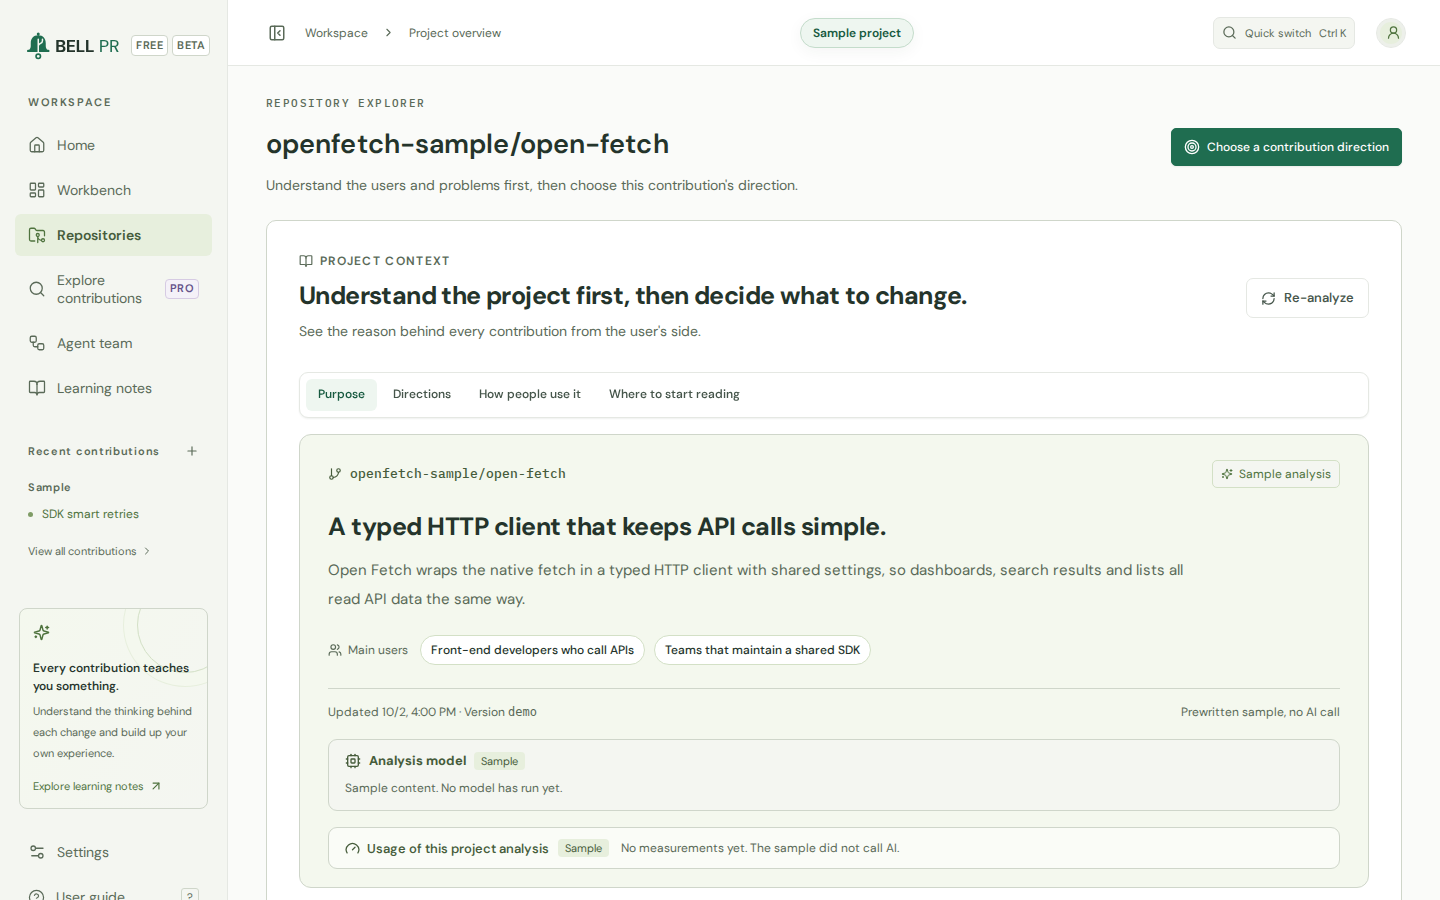
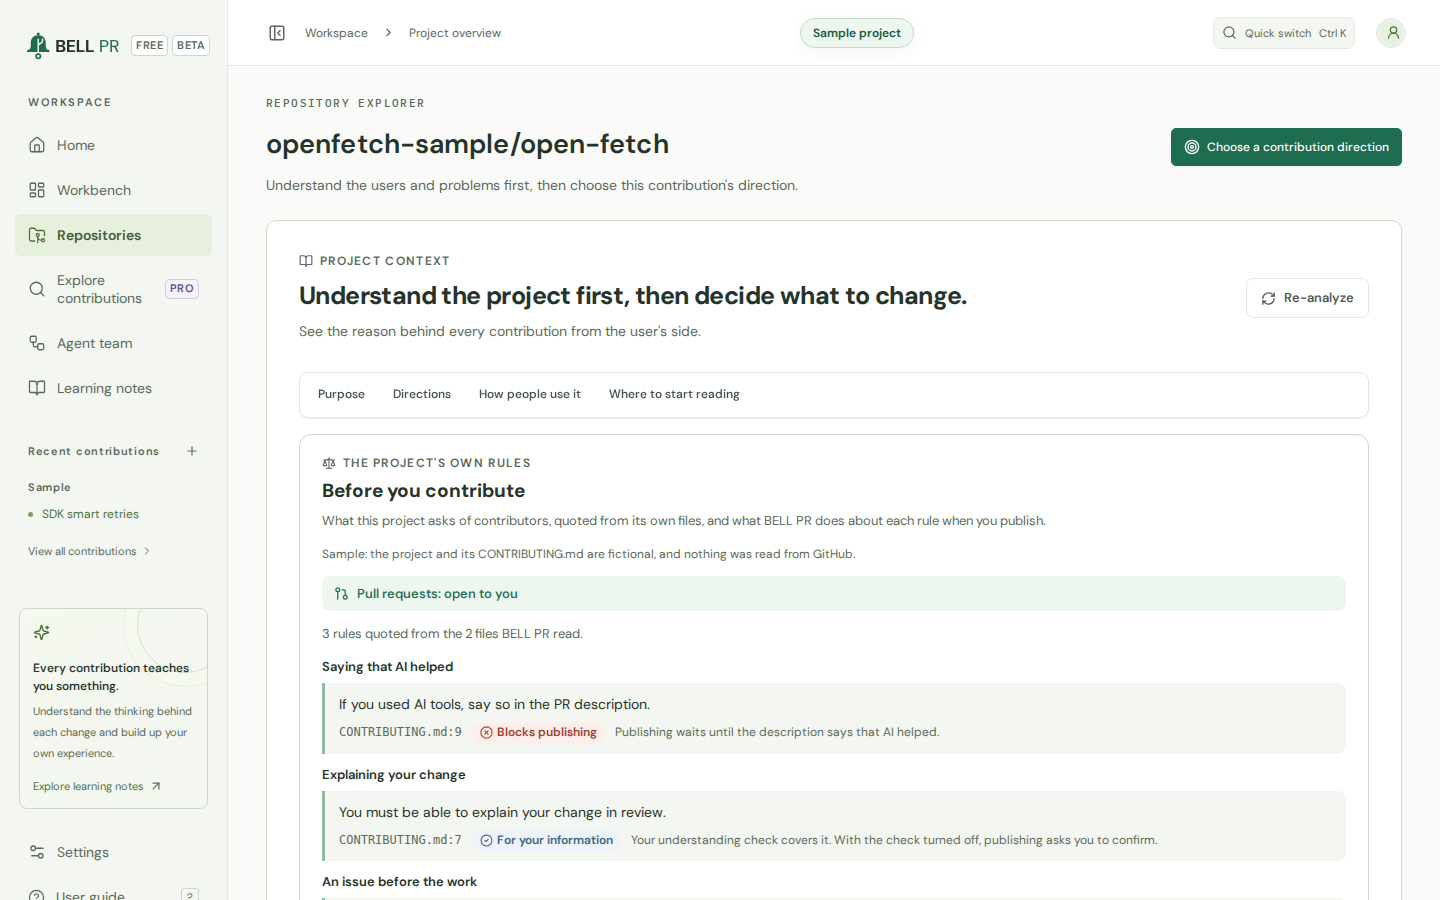
Put the v1.1 story on the landing page
- The owner's headline replaces the tagline candidate and its TODO
  comment; the eyebrow, lead, title and social descriptions follow
- The watch section, "How it works" ("Let AI do the legwork. Keep the
  understanding.") in four steps, and a features grid of six cards
  mapped to the pillars, with "Practice what you missed" for the old
  learning-notes card; "Your tools, your accounts" moves into the
  No BELL cloud trust item, which keeps its neutral wording
- Plans heading and lead: "Free covers the whole responsible loop. Pro
  goes deeper."; FAQ answers on explaining it back, what is free and
  required disclosures, plus "Can I turn the understanding check off?"
- The screenshots show the rules card, the passed check and the
  maintainer checklist; site/assets/screenshots copies the new 1440 px
  images (team-1440.png stays, no longer shown)
- site/README.md records the owner's tagline choice and where each v1.1
  line is used

diff --git a/site/index.html b/site/index.html
@@ -5,16 +5,16 @@
     <meta http-equiv="Content-Security-Policy" content="default-src 'none'; script-src 'self'; style-src 'self'; img-src 'self'; font-src 'self'; media-src 'self'; base-uri 'none'; form-action 'none'">
     <meta name="viewport" content="width=device-width, initial-scale=1">
     <meta name="referrer" content="no-referrer">
-    <title>BELL PR: a local-first AI workbench for open-source contributions</title>
-    <meta name="description" content="BELL PR runs an AI agent team on your own machine, explains every changed file in plain language, and drafts a pull request that follows the project's rules. Nothing is published until you approve it.">
+    <title>BELL PR: from vibe coding to knowing why</title>
+    <meta name="description" content="BELL PR is a learning workbench for AI-assisted open-source contributions. An AI agent team does the legwork on your own machine; you understand every change, explain it back, and send one Draft PR that follows the project's rules. Nothing is published until you approve it.">
     <meta name="theme-color" content="#1f6d50">
     <link rel="icon" href="assets/brand/favicon.svg" type="image/svg+xml">
     <link rel="icon" href="assets/brand/favicon-32.png" sizes="32x32" type="image/png">
     <link rel="apple-touch-icon" href="assets/brand/apple-touch-icon.png">
     <meta property="og:type" content="website">
     <meta property="og:site_name" content="BELL PR">
-    <meta property="og:title" content="BELL PR: a local-first AI workbench for open-source contributions">
-    <meta property="og:description" content="An AI agent team on your own machine, a plain-language explanation of every changed file, and a pull request you approved line by line.">
+    <meta property="og:title" content="BELL PR: from vibe coding to knowing why">
+    <meta property="og:description" content="Your AI agent team does the legwork. You understand every change, explain it back, and send only what a maintainer is glad to review.">
     <!-- generated:product-meta key=homepageUrl property="og:url" -->
     <!-- /generated:product-meta -->
     <!-- generated:product-meta key=homepageUrl property="og:image" path="assets/brand/og-image.png" -->
@@ -42,10 +42,9 @@
     <main id="main">
       <section class="hero">
         <div class="wrap">
-          <p class="eyebrow">Local-first · No BELL cloud · No telemetry</p>
-          <!-- TODO [OWNER] tagline: pick one of the candidates in site/README.md. -->
-          <h1>Contribute to open source with an AI team, and understand every line you ship.</h1>
-          <p class="lead">BELL PR is a workbench that runs on your own machine. It analyses a project, proposes contribution directions, runs a small agent team in isolated git worktrees, explains every changed file in plain language, and drafts a pull request that follows the project's own rules. Nothing is published until you have reviewed and approved every file.</p>
+          <p class="eyebrow">Local-first · You explain it back · No telemetry</p>
+          <h1>From vibe coding to knowing why.</h1>
+          <p class="lead">Your AI agent team does the legwork. You understand every change, explain it back, and send only what a maintainer is glad to review. BELL PR runs on your own machine with the AI coding CLI and the GitHub CLI you already use, and it only ever opens Draft pull requests that you approved.</p>
           <div class="hero-actions">
             <div class="command"><code id="start-command">npx bell-pr</code><button class="copy-button" type="button" data-copy="start-command" hidden>Copy</button></div>
             <a class="button" href="install.html">Install guide</a>
@@ -57,8 +56,8 @@
       <section class="section" id="watch" aria-labelledby="watch-title">
         <div class="wrap">
           <div class="section-head">
-            <h2 id="watch-title">From an unfamiliar repository to a reviewed Draft PR</h2>
-            <p>A short tour of the sample project, from analysis to the published draft.</p>
+            <h2 id="watch-title">One contribution, start to finish</h2>
+            <p>A short tour of the sample project, from the project's rules to one Draft PR you can explain.</p>
           </div>
           <figure class="video">
             <video controls preload="none" poster="media/poster.jpg" width="1920" height="1080">
@@ -76,25 +75,25 @@
         <div class="wrap">
           <div class="section-head">
             <p class="eyebrow">How it works</p>
-            <h2 id="how-title">Learn while you contribute</h2>
-            <p>The agents do the legwork. You stay in charge of every decision, and you finish knowing the code you changed.</p>
+            <h2 id="how-title">Let AI do the legwork. Keep the understanding.</h2>
+            <p>Learn while you contribute: the agents write the code, you make every decision, and you finish able to explain the change you send.</p>
           </div>
           <ol class="steps">
             <li>
-              <h3>Point it at a project</h3>
-              <p>BELL PR reads the repository and its contribution guidelines, then proposes contribution directions with verified recommendations.</p>
+              <h3>Read the rules first</h3>
+              <p>BELL PR quotes the project's own contribution rules, checks that it takes pull requests from you, and shows whether the issue you pick is still open and nobody else's.</p>
             </li>
             <li>
-              <h3>Approve the plan</h3>
-              <p>Pick a direction. The Lead plans the work and you approve or revise the plan before any code is written.</p>
+              <h3>Approve the plan, let the team work</h3>
+              <p>The Lead plans the work and you approve it. Teammates, a Reviewer and a Test analyst then work in isolated git worktrees, with the AI coding CLI you already use.</p>
             </li>
             <li>
-              <h3>Let the team work</h3>
-              <p>A Lead, teammates, a Reviewer and a Test analyst work in isolated git worktrees, with the AI coding CLI you already use.</p>
+              <h3>Try first, then explain it back</h3>
+              <p>Answer each file's question before the explanation shows you, then explain the whole change back in your own words before you approve it.</p>
             </li>
             <li>
-              <h3>Review, understand, publish</h3>
-              <p>Read a plain-language explanation of every changed file and ask follow-up questions. Then publish a Draft PR that follows the project's rules.</p>
+              <h3>Send one Draft PR, then learn from the review</h3>
+              <p>Publish a Draft PR in your own words once the project's checks pass, then compare the maintainers' review with what you predicted and practise what you missed.</p>
             </li>
           </ol>
         </div>
@@ -110,26 +109,26 @@
           <ul class="shots">
             <li>
               <figure class="shot">
-                <a href="assets/screenshots/repo-overview-1440.png"><img src="assets/screenshots/repo-overview-1440.png" alt="The project overview of the sample project: what the project does, who uses it, and tabs for directions and where to start reading." width="1440" height="900" loading="lazy" decoding="async"></a>
-                <figcaption><strong>Understand the project first</strong>The analysis explains what the project does, who uses it and where to start reading, before you choose a contribution direction.</figcaption>
-              </figure>
-            </li>
-            <li>
-              <figure class="shot">
-                <a href="assets/screenshots/team-1440.png"><img src="assets/screenshots/team-1440.png" alt="The agent team page: a team lead, teammates, a team inbox, and review and tests." width="1440" height="900" loading="lazy" decoding="async"></a>
-                <figcaption><strong>One goal, one agent team</strong>A Lead plans the work, teammates build it in their own worktrees, and a Reviewer and a Test analyst check the result.</figcaption>
+                <a href="assets/screenshots/repo-overview-1440.png"><img src="assets/screenshots/repo-overview-1440.png" alt="The project overview of the sample project: the project context, and the Before you contribute card, which says that pull requests are open to you and quotes the project's rules with their file and line." width="1440" height="900" loading="lazy" decoding="async"></a>
+                <figcaption><strong>Read the rules first</strong>Before you choose a contribution direction, BELL PR quotes the project&#39;s own rules with their file and line, says what publishing does about each, and checks that pull requests are open to you.</figcaption>
               </figure>
             </li>
             <li>
               <figure class="shot">
                 <a href="assets/screenshots/run-changes-1440.png"><img src="assets/screenshots/run-changes-1440.png" alt="The code changes of a sample contribution: the changed files, a diff, and a plain-language explanation of the selected file beside it." width="1440" height="900" loading="lazy" decoding="async"></a>
-                <figcaption><strong>Every change, explained</strong>Read each changed file next to a plain-language explanation with examples, mark it reviewed, and ask about any line.</figcaption>
+                <figcaption><strong>Every change, explained</strong>Read each changed file next to a plain-language explanation with examples, answer its question before the answer shows, and ask about any line.</figcaption>
               </figure>
             </li>
             <li>
               <figure class="shot">
-                <a href="assets/screenshots/run-draft-1440.png"><img src="assets/screenshots/run-draft-1440.png" alt="The pull request draft of a sample contribution: a contribution guide, the AI-assistance disclosure switch, and reminders before publishing." width="1440" height="900" loading="lazy" decoding="async"></a>
-                <figcaption><strong>A pull request that fits the project</strong>The draft follows the project&#39;s rules and template, and whether to mention AI help is your decision.</figcaption>
+                <a href="assets/screenshots/run-check-1440.png"><img src="assets/screenshots/run-check-1440.png" alt="The understanding check next to the diff of a sample contribution: the person's own explanation, their answers with their own grades and a correction, and the footer saying they explained it back and can approve." width="1440" height="900" loading="lazy" decoding="async"></a>
+                <figcaption><strong>Explain it back before you approve</strong>A short closed-book check next to the diff: your explanation, your answers and your own grades. No AI model grades you.</figcaption>
+              </figure>
+            </li>
+            <li>
+              <figure class="shot">
+                <a href="assets/screenshots/run-draft-1440.png"><img src="assets/screenshots/run-draft-1440.png" alt="The pull request draft of a sample contribution: the contribution guide, the AI-assistance disclosure switch, and the maintainer checklist with the project's quoted rules." width="1440" height="900" loading="lazy" decoding="async"></a>
+                <figcaption><strong>A pull request that fits the project</strong>The maintainer checklist checks the change against the project&#39;s rules, the issue and your pace there. AI help is mentioned only if the project requires it or you choose to.</figcaption>
               </figure>
             </li>
           </ul>
@@ -140,31 +139,32 @@
         <div class="wrap">
           <div class="section-head">
             <h2 id="features-title">Built for contributions you can stand behind</h2>
+            <p>Understand what you send, train your taste on real code, and respect the maintainer's time.</p>
           </div>
           <ul class="grid">
             <li class="card">
-              <h3>Plain-language explanations</h3>
-              <p>Each changed file comes with what changed and why, examples and trade-offs, and a suggested review order. Ask follow-up questions right next to the diff.</p>
+              <h3>Explanations you test yourself on</h3>
+              <p>Every changed file comes with what changed and why, an example, trade-offs and another way to do it. You answer its question before the answer shows, and you choose which approach you would take.</p>
             </li>
             <li class="card">
-              <h3>You approve every change</h3>
-              <p>Nothing is published until you have reviewed every file and approved the draft. Re-run the Reviewer and the Test analyst whenever you want a second look.</p>
+              <h3>Explain it back before you approve</h3>
+              <p>Ship only what you can explain: a short closed-book check of your own summary and answers, which you grade yourself. It is on by default; turning it off is visible on every run.</p>
             </li>
             <li class="card">
-              <h3>Rule-aware pull requests</h3>
-              <p>Drafts follow the target project's own contribution rules and pull request template, and preflight checks run before you publish a Draft PR.</p>
+              <h3>Practice what you missed</h3>
+              <p>Answers you got wrong while you were sure, and maintainer comments that surprised you, come back days later in your practice deck. No streaks, no scores.</p>
             </li>
             <li class="card">
-              <h3>Isolated agent team</h3>
-              <p>Agents work in separate git worktrees on your machine. You see the plan, the team inbox and every subtask as it happens.</p>
+              <h3>The project's rules, quoted</h3>
+              <p>Rules on AI use, disclosure and descriptions in your own words are quoted from the project's own files, with the file and line, and checked again when you publish.</p>
             </li>
             <li class="card">
-              <h3>Learning notes</h3>
-              <p>Keep what you learned from each contribution on a notes page. Pro exports a learning record as Markdown.</p>
+              <h3>Still open, still yours</h3>
+              <p>Before you start and again before you publish, BELL PR checks that the issue is open, that nobody has claimed it, and that no one else's pull request already fixes it.</p>
             </li>
             <li class="card">
-              <h3>Your tools, your accounts</h3>
-              <p>Works with the OpenAI Codex CLI or the Claude Code CLI you installed and signed in to, and with the GitHub CLI. Usage counts against your own account.</p>
+              <h3>Close the loop before the next PR</h3>
+              <p>Publishing is paced in each project, the same on every plan: answer the review on your open pull requests before you open more there.</p>
             </li>
           </ul>
         </div>
@@ -173,8 +173,8 @@
       <section class="section" id="plans" aria-labelledby="plans-title">
         <div class="wrap">
           <div class="section-head">
-            <h2 id="plans-title">Free covers the whole loop. Pro adds scale.</h2>
-            <p>Free runs one contribution at a time, from analysis to Draft PR. Pro adds bigger and parallel agent teams, GitHub-wide discovery and coaching on maintainer feedback. Every plan keeps the human review gate.</p>
+            <h2 id="plans-title">Free covers the whole responsible loop. Pro goes deeper.</h2>
+            <p>Free includes the understanding check, every project-rule, issue and pacing check, and reading your maintainers' feedback. Pro adds a coach debrief, the complete learning record, AI follow-up rounds, bigger teams, discovery and web access. No plan buys more pull requests or a way past a check.</p>
           </div>
           <div class="table-frame">
             <!-- generated:plan-table locale=en -->
@@ -229,7 +229,7 @@
             </li>
             <li>
               <h3>No BELL cloud</h3>
-              <p>There is no BELL PR server and no account. Your code goes only where your own AI coding CLI and the GitHub CLI send it.</p>
+              <p>There is no BELL PR server and no account. BELL PR works with the OpenAI Codex CLI or the Claude Code CLI you installed and signed in to, and with the GitHub CLI: your code goes only where they send it, and usage counts against your own account.</p>
             </li>
             <li>
               <h3>No telemetry</h3>
@@ -257,7 +257,7 @@
             </details>
             <details>
               <summary>Does it open pull requests on its own?</summary>
-              <p>No. BELL PR publishes a Draft PR only after you have reviewed every changed file and approved the draft, on every plan.</p>
+              <p>No. BELL PR publishes a Draft PR only after you have reviewed every changed file, explained the change back and approved the draft, on every plan. Before it publishes, it checks again that the project takes pull requests from you and that the issue is still yours.</p>
             </details>
             <details>
               <summary>Does my code go to BELL PR?</summary>
@@ -265,11 +265,15 @@
             </details>
             <details>
               <summary>What is free?</summary>
-              <p>The whole contribution loop, one contribution at a time, with a Lead, two teammates, a Reviewer and a Test analyst. A 14-day Pro trial starts only when you choose. See <a href="pricing.html">pricing</a> for the full comparison.</p>
+              <p>The whole responsible loop, one contribution at a time: a Lead, two teammates, a Reviewer and a Test analyst, explanations with try-first questions, the understanding check, every project-rule, issue and pacing check, reading your maintainers' feedback, and the practice deck. A 14-day Pro trial starts only when you choose. See <a href="pricing.html">pricing</a> for the full comparison.</p>
             </details>
             <details>
               <summary>Does the pull request say that AI helped?</summary>
-              <p>Only if you choose. The draft can end with an editable line saying that AI coding agents helped prepare the change and that you reviewed it. The line is off unless you turn it on, or the project&#39;s own rules ask for a disclosure. Follow each project&#39;s rules on AI-assisted contributions; the <a href="legal/terms.html#4-responsible-contribution">terms</a> explain what responsible use means.</p>
+              <p>Only if you choose, or if the project requires it. The draft can end with an editable line saying that AI coding agents helped prepare the change and that you reviewed it. The line is off unless you turn it on, or the project&#39;s own rules ask for a disclosure. When they require one, BELL PR does not publish until the description has it. Follow each project&#39;s rules on AI-assisted contributions; the <a href="legal/terms.html#4-responsible-contribution">terms</a> explain what responsible use means.</p>
+            </details>
+            <details>
+              <summary>Can I turn the understanding check off?</summary>
+              <p>Yes, in Settings, after a confirmation that says what changes. Every file still has to be reviewed and you still approve the pull request; every project-rule, issue and pacing check still applies, and runs approved without the check are marked for good.</p>
             </details>
             <details>
               <summary>Is BELL PR made by GitHub, OpenAI or Anthropic?</summary>

diff --git a/site/README.md b/site/README.md
@@ -14,7 +14,7 @@ header. Light theme only; the layout works from 390 to 1440 px.
 | `site.css`, `site.js` | Styles, and the copy buttons (the pages work without the script) |
 | `assets/brand/` | Logo, favicons and the social preview image, copied from `public/` |
 | `assets/fonts/` | Self-hosted DM Sans and IBM Plex Mono (SIL Open Font License 1.1, licenses included) |
-| `assets/screenshots/` | Four screens of the sample project, copied from `docs/images/en/` |
+| `assets/screenshots/` | Screens of the sample project, copied from `docs/images/en/`; the landing page shows four of them |
 | `media/` | The promo video, gitignored; see [Media](#media) |
 | `README.md`, `check-site.mjs`, `build-legal.mjs` | This file, the site checks and the legal page builder; they are not part of the site |
 
@@ -38,7 +38,7 @@ header. Light theme only; the layout works from 390 to 1440 px.
   `LEGAL-REVIEW.md` and each document's owner placeholder list;
   `--self-test` tests the builder.
 - **Screenshots.** `assets/screenshots/` holds byte-identical copies of
-  four images in `docs/images/en/`. After the documentation images are
+  images in `docs/images/en/`. After the documentation images are
   captured again, copy them again, for example
   `cp docs/images/en/run-changes-1440.png site/assets/screenshots/`; the
   site check fails while a copy differs.
@@ -65,15 +65,22 @@ header. Light theme only; the layout works from 390 to 1440 px.
 Each one is marked on the page, as a visible `[OWNER: …]` placeholder or as
 an HTML comment.
 
-1. **Tagline** (`index.html`, the hero heading; an HTML comment marks it).
-   The page uses candidate 1 until the owner chooses:
-   1. "Contribute to open source with an AI team, and understand every line
-      you ship."
-   2. "Your AI contribution team. Your review. Your pull request."
-   3. "From unfamiliar repo to reviewed Draft PR, on your own machine."
-   4. "Learn the codebase while the agents do the legwork."
-   5. "Local-first AI pair-contributing: no BELL cloud, no telemetry, you
-      approve every change."
+1. **Tagline: decided.** The owner chose the headline on 2026-10-15, so the
+   hero heading of `index.html` no longer carries an HTML comment. The v1.1
+   lines, with where each one is used:
+   - **"From vibe coding to knowing why."** (zh-TW: 從「憑感覺寫」到「知道為什麼」。)
+     The headline: the hero heading, the READMEs' tagline, the app's Home
+     and the npm description, and the promo's end card once the video is
+     cut again. Chosen by the owner.
+   - "Ship only what you can explain." (只送出你講得清楚的程式碼。) Introduces
+     the Explain-it-back feature (the features grid), never as the
+     headline.
+   - "Let AI do the legwork. Keep the understanding." (讓 AI 跑腿，理解留給自己。)
+     The "How it works" heading.
+   - "Train your taste on real code." (在真實的程式碼裡，練出品味。) The
+     second pillar; not on the site yet.
+   - "Be the PR a maintainer is glad to open." (成為維護者樂意打開的那個 PR。)
+     The third pillar and the heading of `docs/contributing-responsibly.md`.
 2. **Pro price** (`pricing.html`, `[OWNER: price]`).
 3. **Billing period, currency and taxes** (`pricing.html`).
 4. **License key delivery**, instant from a key pool or by hand within N
